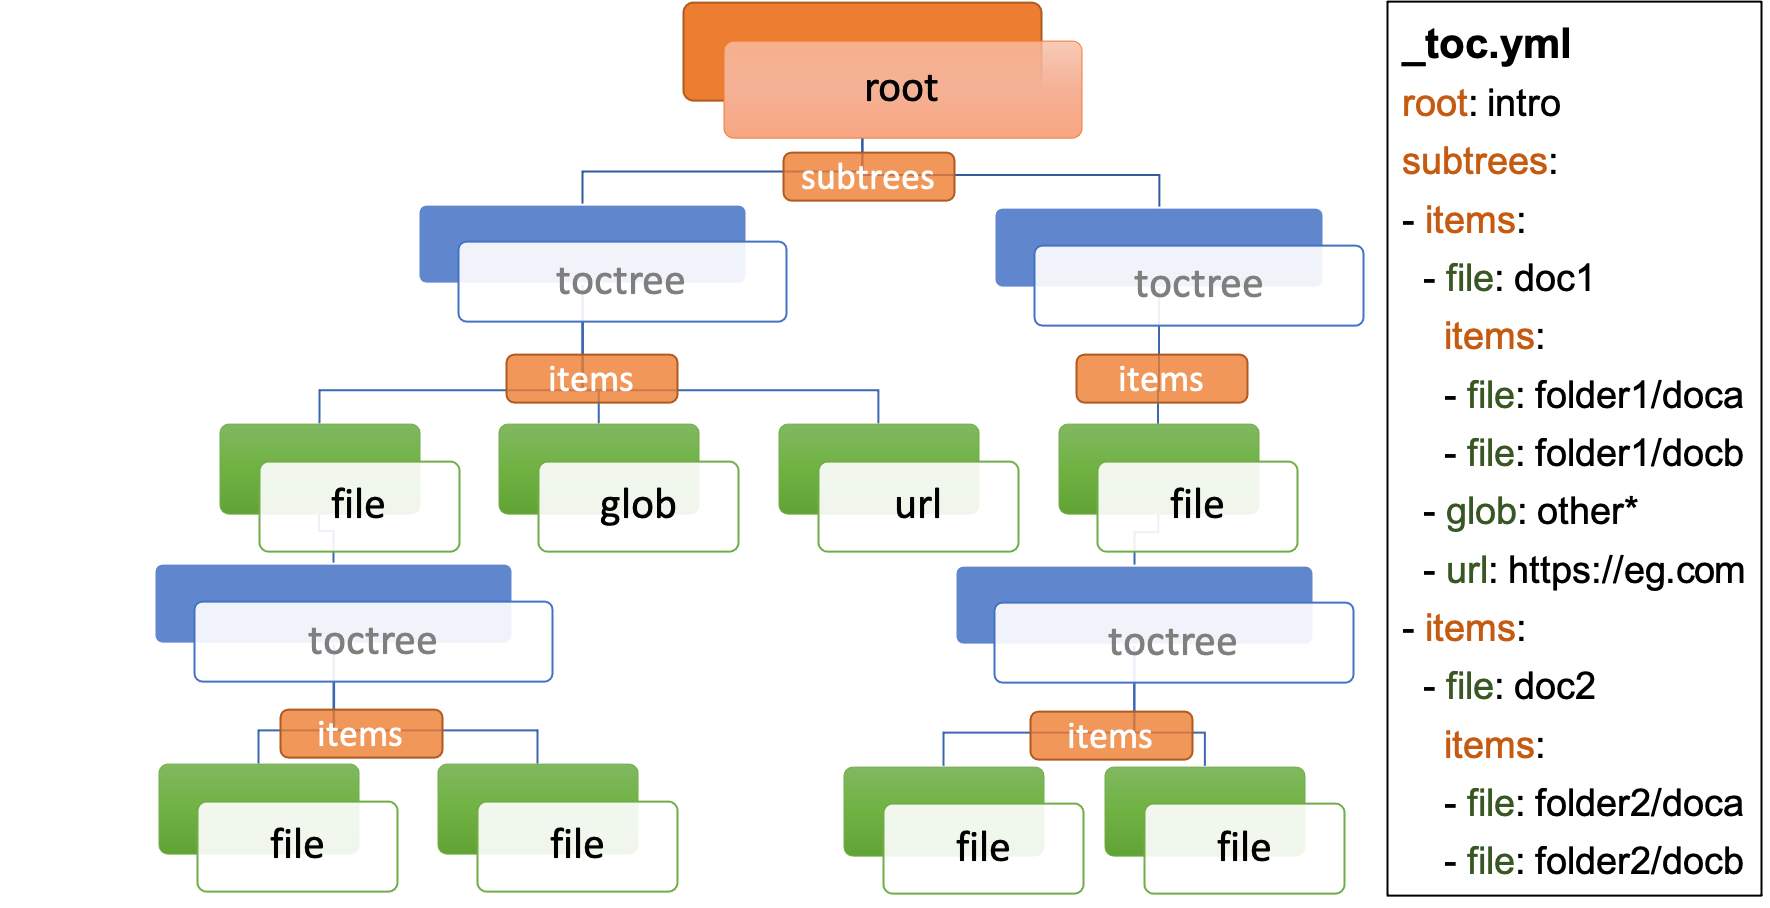
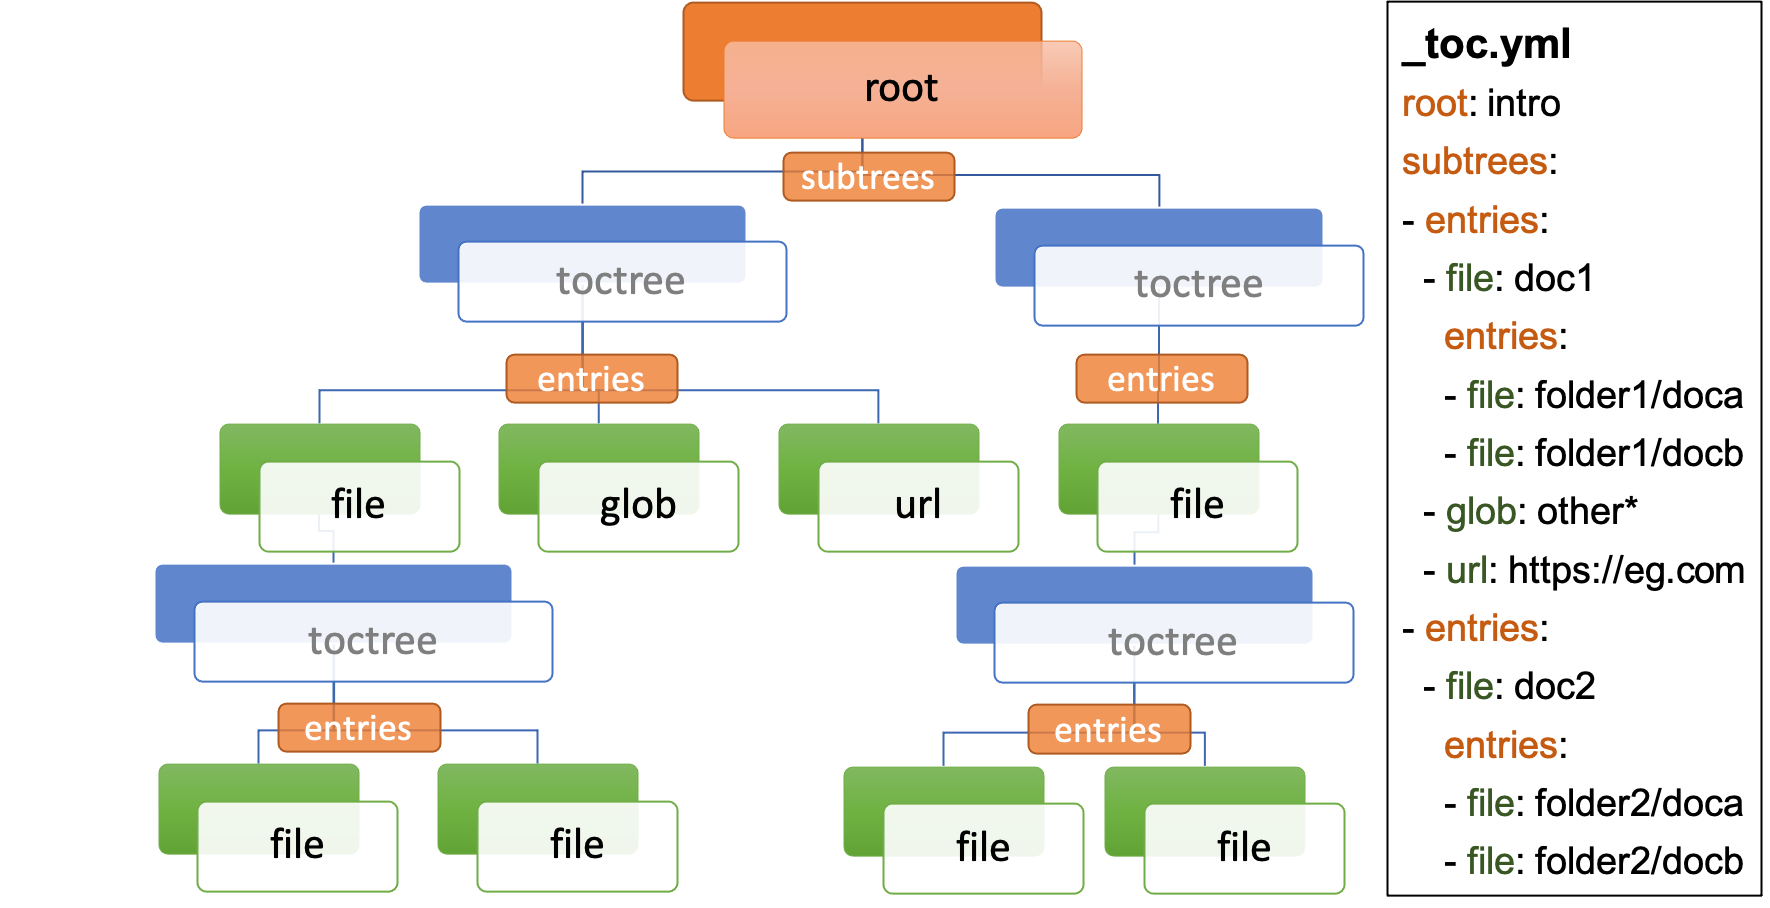
♻ REFACTOR: key `items` -> `entries` (#32)

diff --git a/sphinx_external_toc/parsing.py b/sphinx_external_toc/parsing.py
@@ -9,7 +9,7 @@ import yaml
 from .api import Document, FileItem, GlobItem, SiteMap, TocTree, UrlItem
 
 DEFAULT_SUBTREES_KEY = "subtrees"
-DEFAULT_ITEMS_KEY = "items"
+DEFAULT_ITEMS_KEY = "entries"
 FILE_FORMAT_KEY = "format"
 ROOT_KEY = "root"
 FILE_KEY = "file"
@@ -173,7 +173,7 @@ def _parse_doc_item(
 
         if not (isinstance(toc_data, Mapping) and items_key in toc_data):
             raise MalformedError(
-                f"item not a mapping containing '{items_key}' key @ '{toc_path}'"
+                f"entry not a mapping containing '{items_key}' key @ '{toc_path}'"
             )
 
         items_data = toc_data[items_key]
@@ -187,7 +187,7 @@ def _parse_doc_item(
 
             if not isinstance(item_data, Mapping):
                 raise MalformedError(
-                    f"item not a mapping type @ '{toc_path}{items_key}/{item_idx}'"
+                    f"entry not a mapping type @ '{toc_path}{items_key}/{item_idx}'"
                 )
 
             link_keys = _known_link_keys.intersection(item_data)
@@ -195,19 +195,19 @@ def _parse_doc_item(
             # validation checks
             if not link_keys:
                 raise MalformedError(
-                    f"item does not contain one of "
+                    f"entry does not contain one of "
                     f"{_known_link_keys!r} @ '{toc_path}{items_key}/{item_idx}'"
                 )
             if not len(link_keys) == 1:
                 raise MalformedError(
-                    f"item contains incompatible keys "
+                    f"entry contains incompatible keys "
                     f"{link_keys!r} @ '{toc_path}{items_key}/{item_idx}'"
                 )
             for item_key in (GLOB_KEY, URL_KEY):
                 for other_key in (subtrees_key, items_key):
                     if link_keys == {item_key} and other_key in item_data:
                         raise MalformedError(
-                            f"item contains incompatible keys "
+                            f"entry contains incompatible keys "
                             f"'{item_key}' and '{other_key}' @ '{toc_path}{items_key}/{item_idx}'"
                         )
 
@@ -221,7 +221,7 @@ def _parse_doc_item(
             except (ValueError, TypeError) as exc:
                 exc_arg = exc.args[0] if exc.args else ""
                 raise MalformedError(
-                    f"item validation @ '{toc_path}{items_key}/{item_idx}': {exc_arg}"
+                    f"entry validation @ '{toc_path}{items_key}/{item_idx}': {exc_arg}"
                 ) from exc
 
         # generate toc key-word arguments

diff --git a/tests/test_parsing.py b/tests/test_parsing.py
@@ -27,18 +27,20 @@ def test_create_toc_dict(path: Path, data_regression):
 TOC_FILES_BAD = list(Path(__file__).parent.joinpath("_bad_toc_files").glob("*.yml"))
 ERROR_MESSAGES = {
     "bad_option_value.yml": "toctree validation @ '/': 'titlesonly'",
-    "bad_url.yml": "item validation @ '/items/0': 'url' must match regex",
+    "bad_url.yml": "entry validation @ '/entries/0': 'url' must match regex",
     "empty.yml": "toc is not a mapping:",
-    "file_and_glob_present.yml": "item contains incompatible keys .* @ '/items/0'",
+    "file_and_glob_present.yml": "entry contains incompatible keys .* @ '/entries/0'",
     "list.yml": "toc is not a mapping:",
     "unknown_keys.yml": "Unknown keys found: .* @ '/'",
-    "empty_items.yml": "'items' not a non-empty list @ '/'",
-    "items_in_glob.yml": "item contains incompatible keys 'glob' and 'items' @ '/items/0'",
+    "empty_items.yml": "'entries' not a non-empty list @ '/'",
+    "items_in_glob.yml": "entry contains incompatible keys 'glob' and 'entries' @ '/entries/0'",
     "no_root.yml": "'root' key not found @ '/'",
-    "unknown_keys_nested.yml": "Unknown keys found: {'unknown'}, allow.* @ '/subtrees/0/items/1/'",
+    "unknown_keys_nested.yml": (
+        "Unknown keys found: {'unknown'}, allow.* " "@ '/subtrees/0/entries/1/'"
+    ),
     "empty_subtrees.yml": "'subtrees' not a non-empty list @ '/'",
-    "items_in_url.yml": "item contains incompatible keys 'url' and 'items' @ '/items/0'",
-    "subtree_with_no_items.yml": "item not a mapping containing 'items' key @ '/subtrees/0/'",
+    "items_in_url.yml": "entry contains incompatible keys 'url' and 'entries' @ '/entries/0'",
+    "subtree_with_no_items.yml": "entry not a mapping containing 'entries' key @ '/subtrees/0/'",
 }
 
 

diff --git a/README.md b/README.md
@@ -43,7 +43,7 @@ The value of the `root` key will be a path to a file, in Unix format (folders sp
 This root file will be set as the [`master_doc`](https://www.sphinx-doc.org/en/master/usage/configuration.html#confval-master_doc).
 :::
 
-Document files can then have a `subtrees` key - denoting a list of individual toctrees for that document - and in-turn each subtree should have a `items` key - denoting a list of children links, that are one of:
+Document files can then have a `subtrees` key - denoting a list of individual toctrees for that document - and in-turn each subtree should have a `entries` key - denoting a list of children links, that are one of:
 
 - `file`: path to a single document file in Unix format,  with or without the file extension (as for `root`)
 - `glob`: path to one or more document files *via* Unix shell-style wildcards (similar to [`fnmatch`](https://docs.python.org/3/library/fnmatch.html), but single stars don't match slashes.)
@@ -58,13 +58,13 @@ This can proceed recursively to any depth.
 ```yaml
 root: intro
 subtrees:
-- items:
+- entries:
   - file: doc1
     subtrees:
-    - items:
+    - entries:
       - file: doc2
         subtrees:
-        - items:
+        - entries:
           - file: doc3
   - url: https://example.com
   - glob: subfolder/other*
@@ -73,16 +73,16 @@ subtrees:
 This is equivalent to having a single `toctree` directive in `intro`, containing `doc1`,
 and a single `toctree` directive in `doc1`, with the `:glob:` flag and containing `doc2`, `https://example.com` and `subfolder/other*`.
 
-As a shorthand, the `items` key can be at the same level as the `file`, which denotes a document with a single subtree.
+As a shorthand, the `entries` key can be at the same level as the `file`, which denotes a document with a single subtree.
 For example, this file is exactly equivalent to the one above:
 
 ```yaml
 root: intro
-items:
+entries:
 - file: doc1
-  items:
+  entries:
   - file: doc2
-    items:
+    entries:
     - file: doc3
 - url: https://example.com
 - glob: subfolder/other*
@@ -96,7 +96,7 @@ With the `title` key you can set an alternative title for a document. and also f
 ```yaml
 root: intro
 subtrees:
-- items:
+- entries:
   - file: doc1
     title: Document 1 Title
   - url: https://example.com
@@ -115,7 +115,7 @@ Each subtree can be configured with a number of options (see also [sphinx `toctr
   If set to `True`, all sub-trees will also be numbered based on nesting (e.g. with `1.1` or `1.1.1`),
   or if set to an integer then the numbering will only be applied to that depth.
 - `reversed` (boolean): If `True` then the entries in the subtree will be listed in reverse order (default `False`).
-  This can be useful when using `glob` items.
+  This can be useful when using `glob` entries.
 - `titlesonly` (boolean): If `True` then only the first heading in the document will be shown in the ToC, not other headings of the same level (default `False`).
 
 These options can be set at the level of the subtree:
@@ -129,11 +129,11 @@ subtrees:
   numbered: True
   reversed: False
   titlesonly: True
-  items:
+  entries:
   - file: doc1
     subtrees:
     - titlesonly: True
-      items:
+      entries:
       - file: doc2
 ```
 
@@ -148,11 +148,11 @@ options:
   numbered: True
   reversed: False
   titlesonly: True
-items:
+entries:
 - file: doc1
   options:
     titlesonly: True
-  items:
+  entries:
   - file: doc2
 ```
 
@@ -168,9 +168,9 @@ options:
   maxdepth: 1
   numbered: True
   reversed: False
-items:
+entries:
 - file: doc1
-  items:
+  entries:
   - file: doc2
 ```
 
@@ -185,18 +185,18 @@ If you want want this numbering to be continuous, check-out the [sphinx-multitoc
 
 ### Using different key-mappings
 
-For certain use-cases, it is helpful to map the `subtrees`/`items` keys to mirror e.g. an output [LaTeX structure](https://www.overleaf.com/learn/latex/sections_and_chapters).
+For certain use-cases, it is helpful to map the `subtrees`/`entries` keys to mirror e.g. an output [LaTeX structure](https://www.overleaf.com/learn/latex/sections_and_chapters).
 
 The `format` key can be used to provide such mappings (and also initial defaults).
 Currently available:
 
 - `jb-article`:
-  - Maps `items` -> `sections`
+  - Maps `entries` -> `sections`
   - Sets the default of `titlesonly` to `true`
 - `jb-book`:
   - Maps the top-level `subtrees` to `parts`
-  - Maps the top-level `items` to `chapters`
-  - Maps other levels of `items` to `sections`
+  - Maps the top-level `entries` to `chapters`
+  - Maps other levels of `entries` to `sections`
   - Sets the default of `titlesonly` to `true`
 
 For example:
@@ -206,9 +206,9 @@ defaults:
   titlesonly: true
 root: index
 subtrees:
-- items:
+- entries:
   - file: doc1
-    items:
+    entries:
     - file: doc2
 ```
 
@@ -266,6 +266,10 @@ external_toc_exclude_missing = True
 Note that, for performance, files that are in *hidden folders* (e.g. in `.tox` or `.venv`) will not be added to `exclude_patterns` even if they are not specified in the ToC.
 You should exclude these folders explicitly.
 
+:::{important}
+This feature is not currently compatible with [orphan files](https://www.sphinx-doc.org/en/master/usage/restructuredtext/field-lists.html#metadata).
+:::
+
 ## Command-line
 
 This package comes with the `sphinx-etoc` command-line program, with some additional tools.
@@ -299,7 +303,7 @@ Note, you can also add additional files in `meta`/`create_files` amd append text
 
 ```yaml
 root: intro
-items:
+entries:
 - glob: doc*
 meta:
   create_append:
@@ -354,7 +358,7 @@ will create the ToC:
 ```console
 $ sphinx-etoc from-site path/to/folder -i index -s ".*" -e ".rst" -t
 root: index
-items:
+entries:
 - file: 1_a_title
   title: A title
 - file: 11_another_title
@@ -363,20 +367,20 @@ items:
   title: A subfolder
 - file: 2_another_subfolder/index
   title: Another subfolder
-  items:
+  entries:
   - file: 2_another_subfolder/other
     title: Other
 - file: 3_subfolder/1_no_index
   title: No index
-  items:
+  entries:
   - file: 3_subfolder/2_no_index
     title: No index
 - file: 14_subfolder/index
   title: Subfolder
-  items:
+  entries:
   - file: 14_subfolder/subsubfolder/index
     title: Subsubfolder
-    items:
+    entries:
     - file: 14_subfolder/subsubfolder/other
       title: Other
 ```
